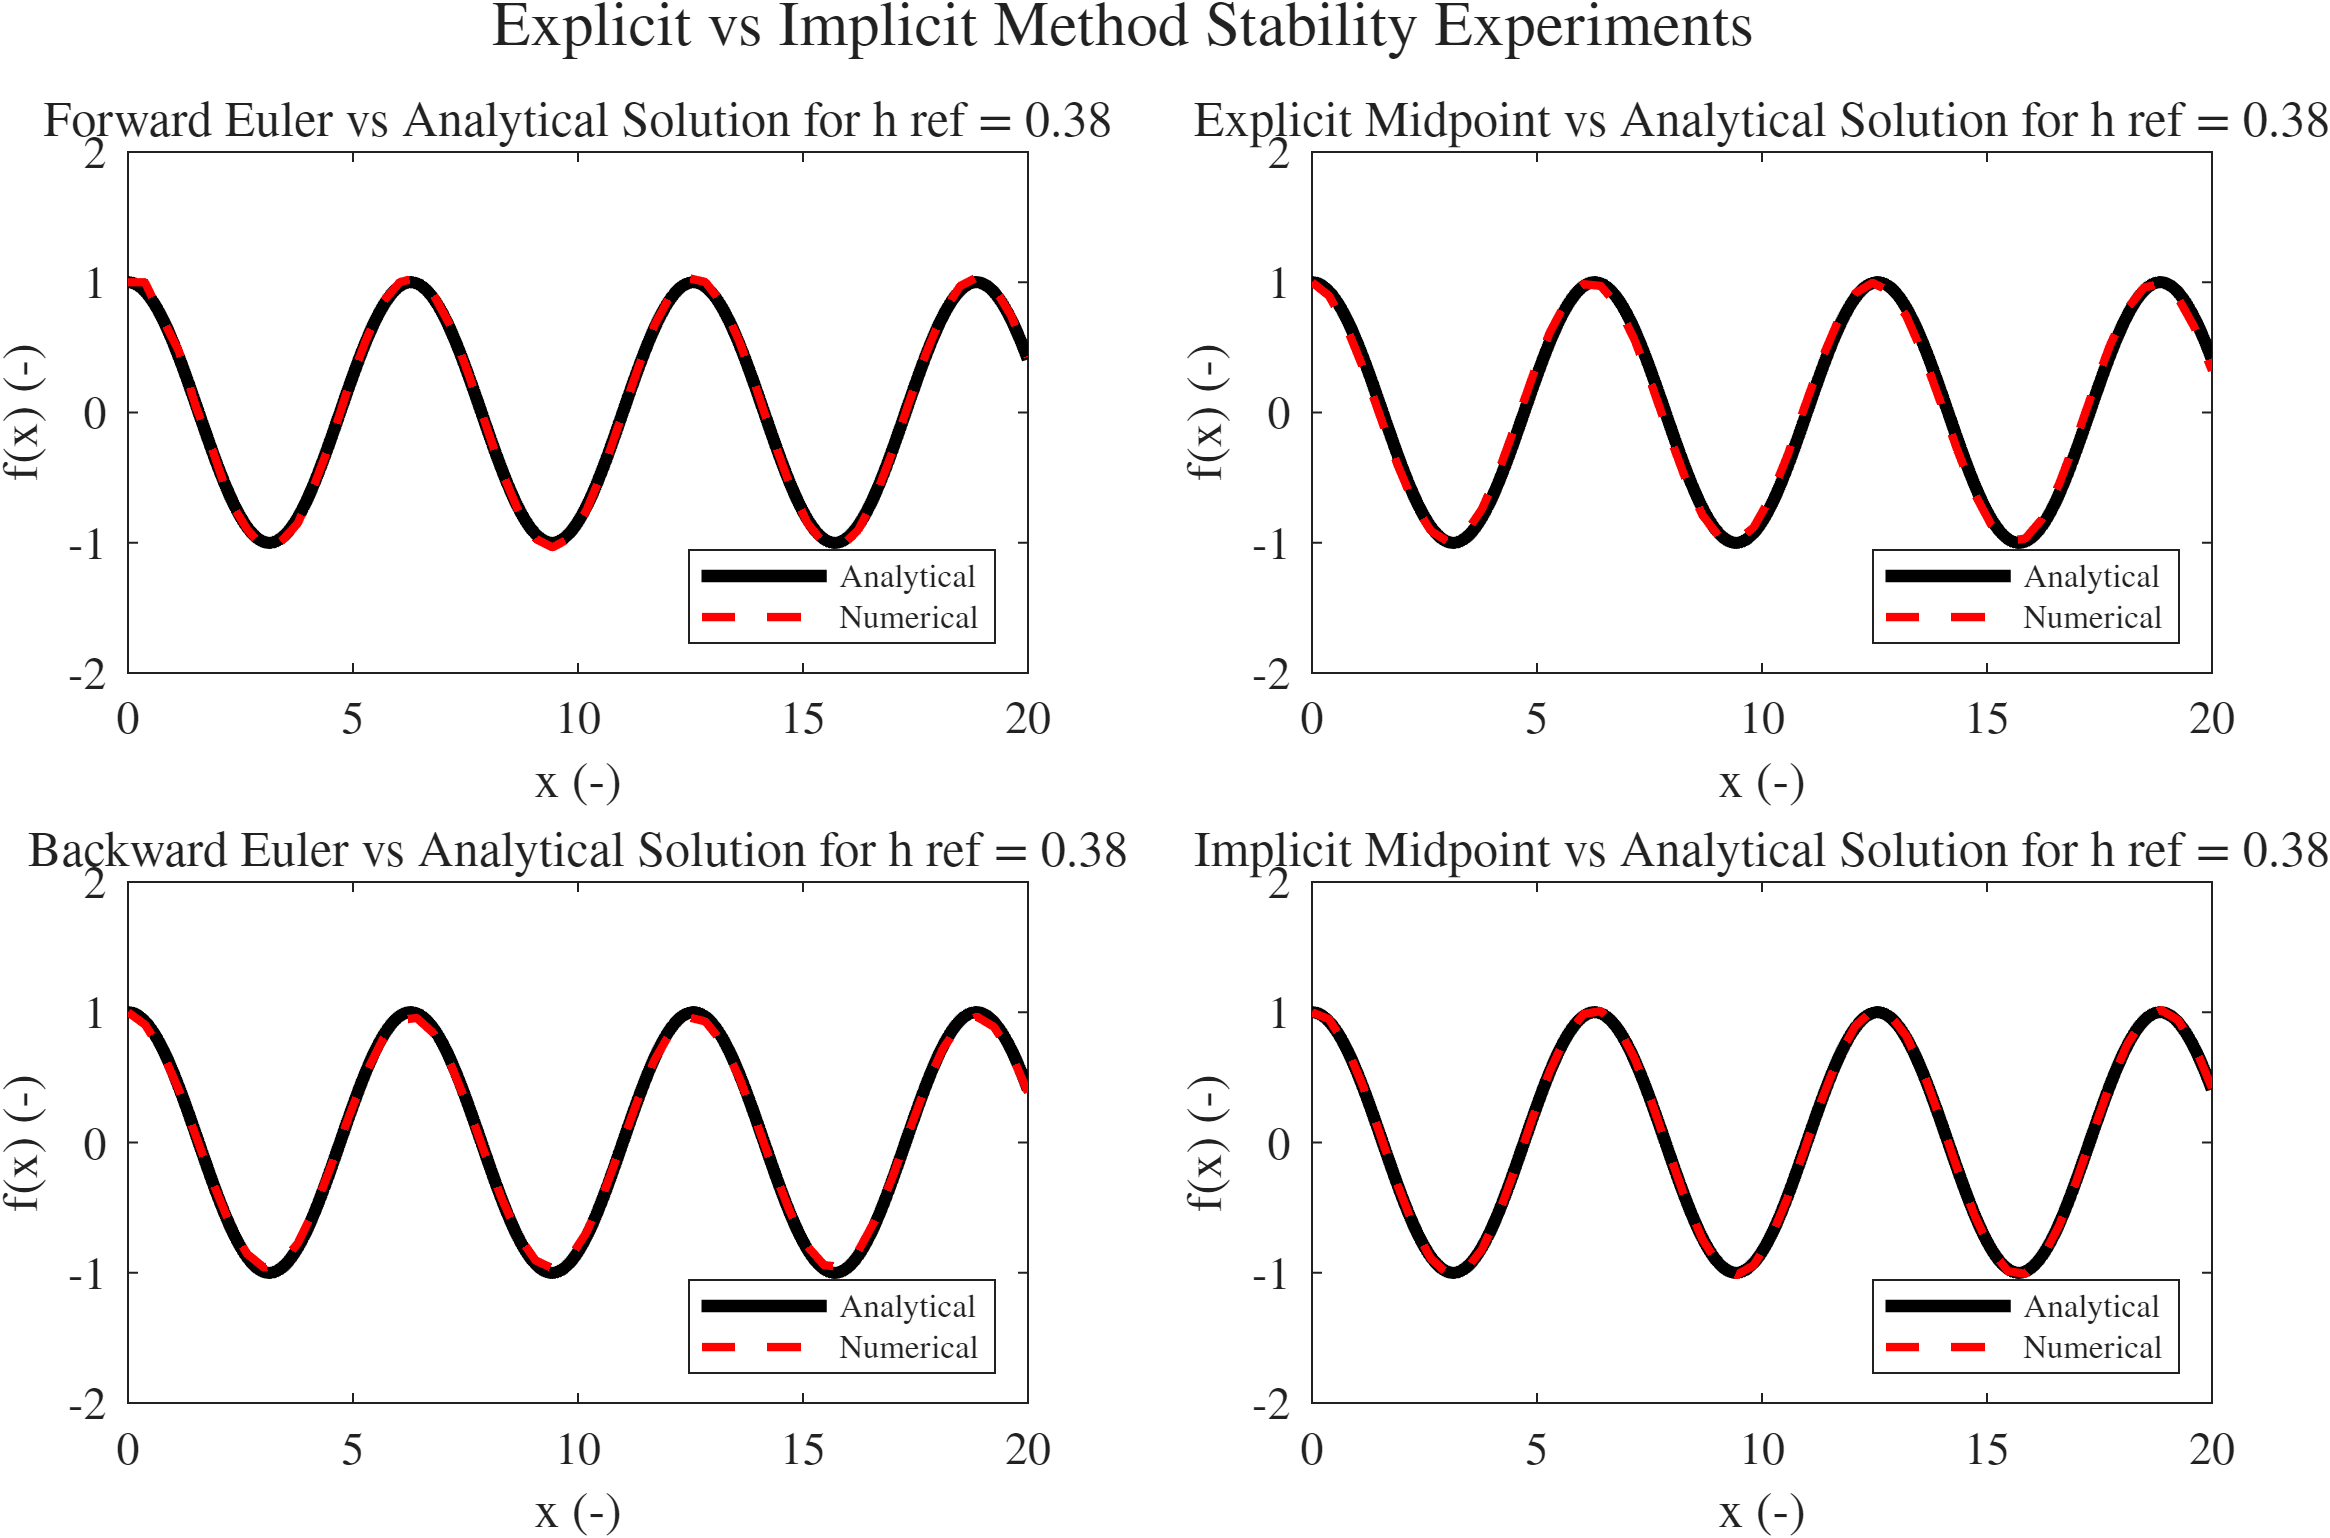
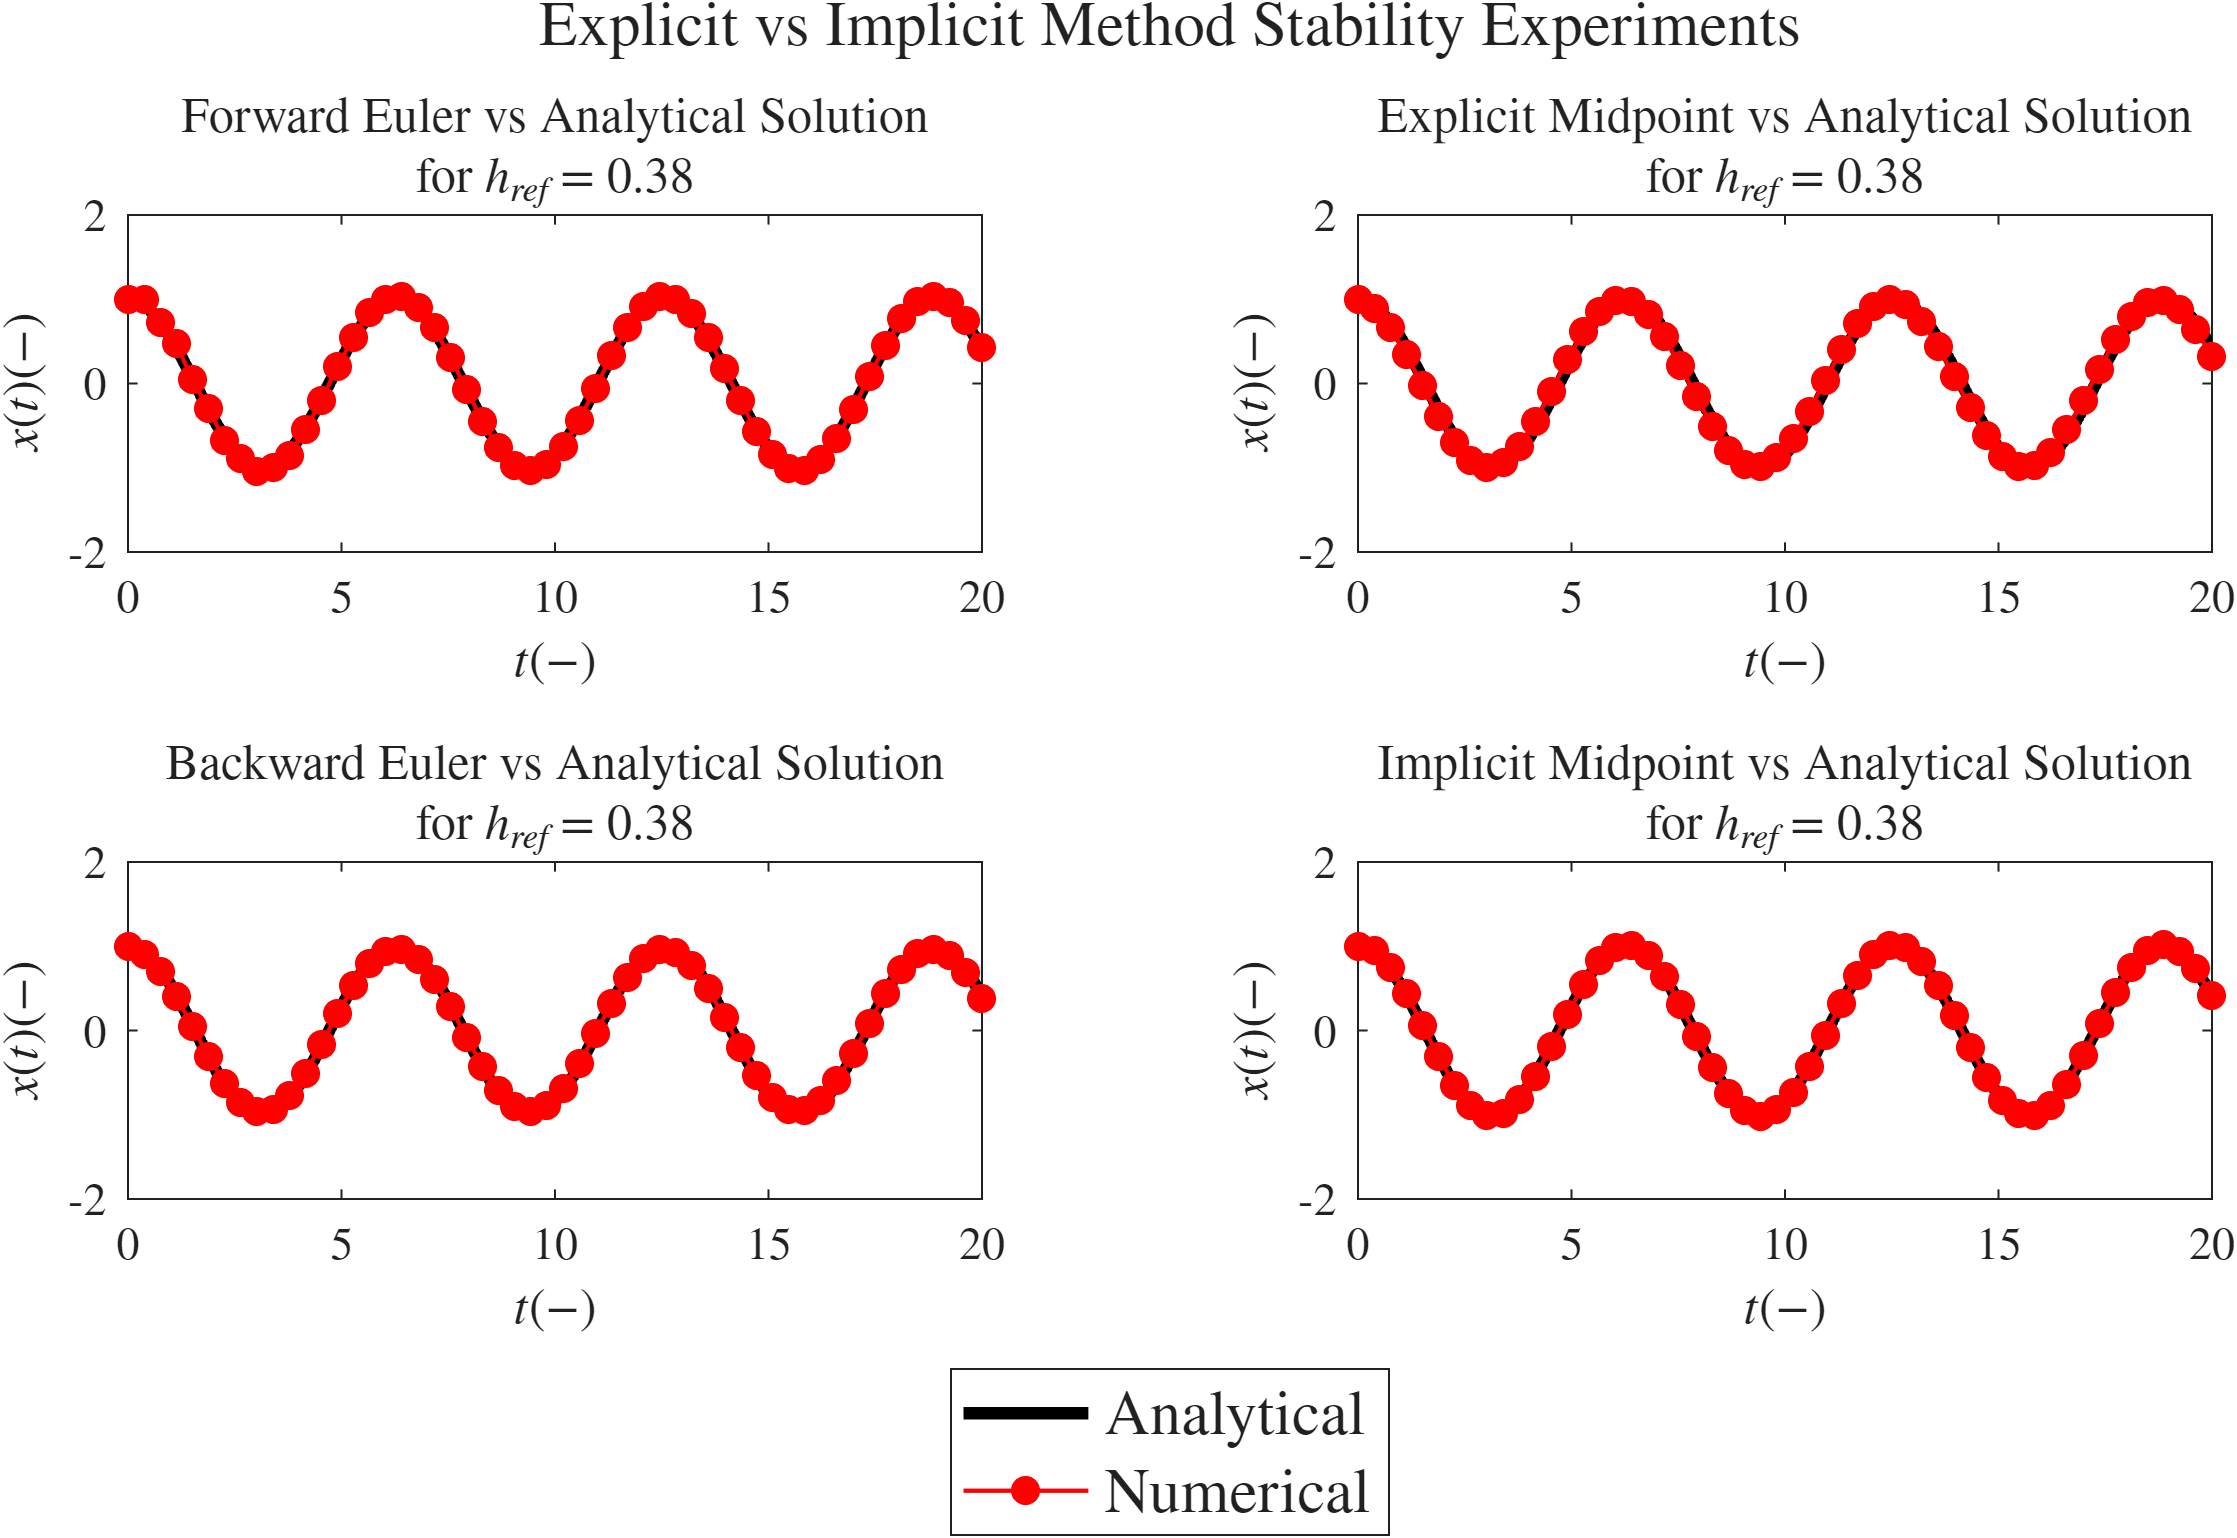
fixed stability plots

diff --git a/stability_plot_2.m b/stability_plot_2.m
@@ -1,76 +1,84 @@
 
-f= figure();
-subplot(2, 2, 1);
+f = figure();
+tcl = tiledlayout(2, 2)
+% subplot(2, 2, 1);
+nexttile(tcl);
 t_space = linspace(0,20,20/0.01);
 true_sol = solution01(t_space);
 [t_list_fe, X_list_fe, h_avg, num_evals] = forward_euler_fixed_step_integration(@rate_func01, [0,20], 1, .45);
-plot(t_space, true_sol, LineWidth=3, Color="k")
+line1 = plot(t_space, true_sol, LineWidth=3, Color="k")
 hold on
-plot(t_list_fe, X_list_fe, '--', LineWidth=2, Color="r")
+line2 = plot(t_list_fe, X_list_fe, '-o',MarkerFaceColor='r', LineWidth=1, Color="r")
 hold off
-legend(["Analytical","Numerical"], Interpreter="latex", Location="southeast", FontSize=8)
-xlabel("x (-)", Interpreter="latex", FontSize=14)
-ylabel("f(x) (-)", Interpreter="latex", FontSize=14)
+%legend(["Analytical","Numerical"], Interpreter="latex", Location="southeast", FontSize=8)
+xlabel("$t (-)$", Interpreter="latex", FontSize=14)
+ylabel("$x(t) (-)$", Interpreter="latex", FontSize=14)
 axis([0 20 -2 2])
-title("Forward Euler vs Analytical Solution for h ref = 0.45", Interpreter='latex', FontSize=11)
+title(["Forward Euler vs Analytical Solution", "for $h_{ref}$ = 0.45"], Interpreter='latex', FontSize=11)
 ax = gca;
 ax.FontSize = 11;
 ax.XAxis.TickLabelInterpreter = 'Latex';
 ax.YAxis.TickLabelInterpreter = 'Latex';
 
-subplot(2, 2, 2);
+% subplot(2, 2, 2);
+nexttile(tcl);
 t_space = linspace(0,20,20/0.01);
 true_sol = solution01(t_space);
 [t_list_emp, X_list_emp, h_avg, num_evals] = explicit_midpoint_fixed_step_integration(@rate_func01, [0,20], 1, .45);
 plot(t_space, true_sol, LineWidth=3, Color="k")
 hold on
-plot(t_list_emp, X_list_emp, '--', LineWidth=2, Color="r")
+plot(t_list_emp, X_list_emp, '-o',MarkerFaceColor='r', LineWidth=1, Color="r")
 hold off
-legend(["Analytical","Numerical"], Interpreter="latex", Location="southeast", FontSize=8)
-xlabel("x (-)", Interpreter="latex", FontSize=14)
-ylabel("f(x) (-)", Interpreter="latex", FontSize=14)
+%legend(["Analytical","Numerical"], Interpreter="latex", Location="southeast", FontSize=8)
+xlabel("$t (-)$", Interpreter="latex", FontSize=14)
+ylabel("$x(t) (-)$", Interpreter="latex", FontSize=14)
 axis([0 20 -2 2])
-title("Explicit Midpoint vs Analytical Solution for h ref = 0.45", Interpreter='latex', FontSize=11)
+title(["Explicit Midpoint vs Analytical Solution", "for $h_{ref}$ = 0.45"], Interpreter='latex', FontSize=11)
 ax = gca;
 ax.FontSize = 11;
 ax.XAxis.TickLabelInterpreter = 'Latex';
 ax.YAxis.TickLabelInterpreter = 'Latex';
 
-subplot(2, 2, 3);
+% subplot(2, 2, 3);
+nexttile(tcl);
 t_space = linspace(0,20,20/0.01);
 true_sol = solution01(t_space);
 [t_list_be, X_list_be, h_avg, num_evals] = backward_euler_fixed_step_integration(@rate_func01, [0,20], 1, .45);
 plot(t_space, true_sol, LineWidth=3, Color="k")
 hold on
-plot(t_list_be, X_list_be, '--', LineWidth=2, Color="r")
+plot(t_list_be, X_list_be, '-o', MarkerFaceColor='r',LineWidth=1, Color="r")
 hold off
-legend(["Analytical","Numerical"], Interpreter="latex", Location="southeast", FontSize=8)
-xlabel("x (-)", Interpreter="latex", FontSize=14)
-ylabel("f(x) (-)", Interpreter="latex", FontSize=14)
+%legend(["Analytical","Numerical"], Interpreter="latex", Location="southeast", FontSize=8)
+xlabel("$t (-)$", Interpreter="latex", FontSize=14)
+ylabel("$x(t) (-)$", Interpreter="latex", FontSize=14)
 axis([0 20 -2 2])
-title("Backward Euler vs Analytical Solution for h ref = 0.45", Interpreter='latex', FontSize=11)
+title(["Backward Euler vs Analytical Solution", "for $h_{ref}$ = 0.45"], Interpreter='latex', FontSize=11)
 ax = gca;
 ax.FontSize = 11;
 ax.XAxis.TickLabelInterpreter = 'Latex';
 ax.YAxis.TickLabelInterpreter = 'Latex';
 
-subplot(2, 2, 4);
+% subplot(2, 2, 4);
+nexttile(tcl);
 t_space = linspace(0,20,20/0.01);
 true_sol = solution01(t_space);
 [t_list_imp, X_list_imp, h_avg, num_evals] = implicit_midpoint_fixed_step_integration(@rate_func01, [0,20], 1, .45);
 plot(t_space, true_sol, LineWidth=3, Color="k")
 hold on
-plot(t_list_imp, X_list_imp, '--', LineWidth=2, Color="r")
+plot(t_list_imp, X_list_imp, '-o',MarkerFaceColor='r', LineWidth=1, Color="r")
 hold off
-legend(["Analytical","Numerical"], Interpreter="latex", Location="southeast", FontSize=8)
-xlabel("x (-)", Interpreter="latex", FontSize=14)
-ylabel("f(x) (-)", Interpreter="latex", FontSize=14)
+%legend(["Analytical","Numerical"], Interpreter="latex", Location="southeast", FontSize=8)
+xlabel("$t (-)$", Interpreter="latex", FontSize=14)
+ylabel("$x(t) (-)$", Interpreter="latex", FontSize=14)
 axis([0 20 -2 2])
-title("Implicit Midpoint vs Analytical Solution for h ref = 0.45", Interpreter='latex', FontSize=11)
+title(["Implicit Midpoint vs Analytical Solution", "for $h_{ref}$ = 0.45"], Interpreter='latex', FontSize=11)
 ax = gca;
 ax.FontSize = 11;
 ax.XAxis.TickLabelInterpreter = 'Latex';
 ax.YAxis.TickLabelInterpreter = 'Latex';
 
 sgtitle("Explicit vs Implicit Method Stability Experiments", Interpreter='latex', FontSize=15)
+hl = legend(["Analytical" "Numerical"],Interpreter='latex', FontSize=15);
+hl.Layout.Tile = 'South';
+
 exportgraphics(f, 'plots/45_stability.png', 'Resolution',300)

diff --git a/stability_plots.m b/stability_plots.m
@@ -1,77 +1,84 @@
 
 f = figure();
-subplot(2, 2, 1);
+tcl = tiledlayout(2, 2)
+% subplot(2, 2, 1);
+nexttile(tcl);
 t_space = linspace(0,20,20/0.01);
 true_sol = solution01(t_space);
 [t_list_fe, X_list_fe, h_avg, num_evals] = forward_euler_fixed_step_integration(@rate_func01, [0,20], 1, .38);
-plot(t_space, true_sol, LineWidth=3, Color="k")
+line1 = plot(t_space, true_sol, LineWidth=3, Color="k")
 hold on
-plot(t_list_fe, X_list_fe, '--', LineWidth=2, Color="r")
+line2 = plot(t_list_fe, X_list_fe, '-o',MarkerFaceColor='r', LineWidth=1, Color="r")
 hold off
-legend(["Analytical","Numerical"], Interpreter="latex", Location="southeast", FontSize=8)
-xlabel("x (-)", Interpreter="latex", FontSize=14)
-ylabel("f(x) (-)", Interpreter="latex", FontSize=14)
+%legend(["Analytical","Numerical"], Interpreter="latex", Location="southeast", FontSize=8)
+xlabel("$t (-)$", Interpreter="latex", FontSize=14)
+ylabel("$x(t) (-)$", Interpreter="latex", FontSize=14)
 axis([0 20 -2 2])
-title("Forward Euler vs Analytical Solution for h ref = 0.38", Interpreter='latex', FontSize=11)
+title(["Forward Euler vs Analytical Solution", "for $h_{ref}$ = 0.38"], Interpreter='latex', FontSize=11)
 ax = gca;
 ax.FontSize = 11;
 ax.XAxis.TickLabelInterpreter = 'Latex';
 ax.YAxis.TickLabelInterpreter = 'Latex';
 
-subplot(2, 2, 2);
+% subplot(2, 2, 2);
+nexttile(tcl);
 t_space = linspace(0,20,20/0.01);
 true_sol = solution01(t_space);
 [t_list_emp, X_list_emp, h_avg, num_evals] = explicit_midpoint_fixed_step_integration(@rate_func01, [0,20], 1, .38);
 plot(t_space, true_sol, LineWidth=3, Color="k")
 hold on
-plot(t_list_emp, X_list_emp, '--', LineWidth=2, Color="r")
+plot(t_list_emp, X_list_emp, '-o',MarkerFaceColor='r', LineWidth=1, Color="r")
 hold off
-legend(["Analytical","Numerical"], Interpreter="latex", Location="southeast", FontSize=8)
-xlabel("x (-)", Interpreter="latex", FontSize=14)
-ylabel("f(x) (-)", Interpreter="latex", FontSize=14)
+%legend(["Analytical","Numerical"], Interpreter="latex", Location="southeast", FontSize=8)
+xlabel("$t (-)$", Interpreter="latex", FontSize=14)
+ylabel("$x(t) (-)$", Interpreter="latex", FontSize=14)
 axis([0 20 -2 2])
-title("Explicit Midpoint vs Analytical Solution for h ref = 0.38", Interpreter='latex', FontSize=11)
+title(["Explicit Midpoint vs Analytical Solution", "for $h_{ref}$ = 0.38"], Interpreter='latex', FontSize=11)
 ax = gca;
 ax.FontSize = 11;
 ax.XAxis.TickLabelInterpreter = 'Latex';
 ax.YAxis.TickLabelInterpreter = 'Latex';
 
-subplot(2, 2, 3);
+% subplot(2, 2, 3);
+nexttile(tcl);
 t_space = linspace(0,20,20/0.01);
 true_sol = solution01(t_space);
 [t_list_be, X_list_be, h_avg, num_evals] = backward_euler_fixed_step_integration(@rate_func01, [0,20], 1, .38);
 plot(t_space, true_sol, LineWidth=3, Color="k")
 hold on
-plot(t_list_be, X_list_be, '--', LineWidth=2, Color="r")
+plot(t_list_be, X_list_be, '-o', MarkerFaceColor='r',LineWidth=1, Color="r")
 hold off
-legend(["Analytical","Numerical"], Interpreter="latex", Location="southeast", FontSize=8)
-xlabel("x (-)", Interpreter="latex", FontSize=14)
-ylabel("f(x) (-)", Interpreter="latex", FontSize=14)
+%legend(["Analytical","Numerical"], Interpreter="latex", Location="southeast", FontSize=8)
+xlabel("$t (-)$", Interpreter="latex", FontSize=14)
+ylabel("$x(t) (-)$", Interpreter="latex", FontSize=14)
 axis([0 20 -2 2])
-title("Backward Euler vs Analytical Solution for h ref = 0.38", Interpreter='latex', FontSize=11)
+title(["Backward Euler vs Analytical Solution", "for $h_{ref}$ = 0.38"], Interpreter='latex', FontSize=11)
 ax = gca;
 ax.FontSize = 11;
 ax.XAxis.TickLabelInterpreter = 'Latex';
 ax.YAxis.TickLabelInterpreter = 'Latex';
 
-subplot(2, 2, 4);
+% subplot(2, 2, 4);
+nexttile(tcl);
 t_space = linspace(0,20,20/0.01);
 true_sol = solution01(t_space);
 [t_list_imp, X_list_imp, h_avg, num_evals] = implicit_midpoint_fixed_step_integration(@rate_func01, [0,20], 1, .38);
 plot(t_space, true_sol, LineWidth=3, Color="k")
 hold on
-plot(t_list_imp, X_list_imp, '--', LineWidth=2, Color="r")
+plot(t_list_imp, X_list_imp, '-o',MarkerFaceColor='r', LineWidth=1, Color="r")
 hold off
-legend(["Analytical","Numerical"], Interpreter="latex", Location="southeast", FontSize=8)
-xlabel("x (-)", Interpreter="latex", FontSize=14)
-ylabel("f(x) (-)", Interpreter="latex", FontSize=14)
+%legend(["Analytical","Numerical"], Interpreter="latex", Location="southeast", FontSize=8)
+xlabel("$t (-)$", Interpreter="latex", FontSize=14)
+ylabel("$x(t) (-)$", Interpreter="latex", FontSize=14)
 axis([0 20 -2 2])
-title("Implicit Midpoint vs Analytical Solution for h ref = 0.38", Interpreter='latex', FontSize=11)
+title(["Implicit Midpoint vs Analytical Solution", "for $h_{ref}$ = 0.38"], Interpreter='latex', FontSize=11)
 ax = gca;
 ax.FontSize = 11;
 ax.XAxis.TickLabelInterpreter = 'Latex';
 ax.YAxis.TickLabelInterpreter = 'Latex';
 
 sgtitle("Explicit vs Implicit Method Stability Experiments", Interpreter='latex', FontSize=15)
+hl = legend(["Analytical" "Numerical"],Interpreter='latex', FontSize=15);
+hl.Layout.Tile = 'South';
 
 exportgraphics(f, 'plots/38_stability.png', 'Resolution',300)

diff --git a/implicit_midpoint_fixed_step_integration.m b/implicit_midpoint_fixed_step_integration.m
@@ -12,7 +12,7 @@
 %X_list: the vector of X, [X0';X1';X2';...;(X_end)'] at each time step
 %h_avg: the average step size
 %num_evals: total number of calls made to rate_func_in during the integration
-function [t_list,X_list,h_avg, num_evals] = implicit_midpoint_fixed_step_integration_test(rate_func_in,tspan,X0,h_ref)
+function [t_list,X_list,h_avg, num_evals] = implicit_midpoint_fixed_step_integration(rate_func_in,tspan,X0,h_ref)
     n_steps = ceil((tspan(2)-tspan(1))/h_ref);
 
     h_avg = (tspan(2) - tspan(1))/n_steps;
@@ -30,28 +30,28 @@ function [t_list,X_list,h_avg, num_evals] = implicit_midpoint_fixed_step_integra
 end
 
 
-
-[t_list_small, X_list_small, h_avg, small_num_evals] = implicit_midpoint_fixed_step_integration_test(@rate_func01, [0,2*pi], 1, 0.1);
-[t_list_med, X_list_med, h_avg, med_num_evals] = implicit_midpoint_fixed_step_integration_test(@rate_func01, [0,2*pi], 1, 0.5);
-[t_list_large, X_list_large, h_avg, large_num_evals] = implicit_midpoint_fixed_step_integration_test(@rate_func01, [0,2*pi], 1, 0.9);
-
-figure();
-% set(f, "interpreter", "latex")
-t_space = linspace(0,2*pi,2*pi/0.01);
-true_sol = cos(t_space);
-plot(t_space, true_sol, LineWidth=3, Color="k")
-hold on
-plot(t_list_small, X_list_small, "-o",MarkerFaceColor='r',LineWidth=2, Color="r")
-plot(t_list_med, X_list_med, "-o", MarkerFaceColor='g',LineWidth=2, Color="g")
-plot(t_list_large, X_list_large, "-o", MarkerFaceColor='b',LineWidth=2, Color="b")
-hold off
-legend(["True","$h = 0.1$", "$h = 0.5$", "$h = 0.9$"], Interpreter="latex", Location="north", FontSize=16)
-xlabel("Time (-)", Interpreter="latex", FontSize=16)
-ylabel("$X(t) (-)$", Interpreter="latex", FontSize=16)
-axis([0 2*pi -1.5 1.5])
-title("Implicit Midpoint Method Integration Example", Interpreter='latex', FontSize=18)
-ax = gca;
-ax.FontSize = 16;
-ax.XAxis.TickLabelInterpreter = 'Latex';
-ax.YAxis.TickLabelInterpreter = 'Latex';
-exportgraphics(gca, 'plots/implicit_midpoint.png', 'Resolution',300)
+% 
+% [t_list_small, X_list_small, h_avg, small_num_evals] = implicit_midpoint_fixed_step_integration_test(@rate_func01, [0,2*pi], 1, 0.1);
+% [t_list_med, X_list_med, h_avg, med_num_evals] = implicit_midpoint_fixed_step_integration_test(@rate_func01, [0,2*pi], 1, 0.5);
+% [t_list_large, X_list_large, h_avg, large_num_evals] = implicit_midpoint_fixed_step_integration_test(@rate_func01, [0,2*pi], 1, 0.9);
+% 
+% figure();
+% % set(f, "interpreter", "latex")
+% t_space = linspace(0,2*pi,2*pi/0.01);
+% true_sol = cos(t_space);
+% plot(t_space, true_sol, LineWidth=3, Color="k")
+% hold on
+% plot(t_list_small, X_list_small, "-o",MarkerFaceColor='r',LineWidth=2, Color="r")
+% plot(t_list_med, X_list_med, "-o", MarkerFaceColor='g',LineWidth=2, Color="g")
+% plot(t_list_large, X_list_large, "-o", MarkerFaceColor='b',LineWidth=2, Color="b")
+% hold off
+% legend(["True","$h = 0.1$", "$h = 0.5$", "$h = 0.9$"], Interpreter="latex", Location="north", FontSize=16)
+% xlabel("Time (-)", Interpreter="latex", FontSize=16)
+% ylabel("$X(t) (-)$", Interpreter="latex", FontSize=16)
+% axis([0 2*pi -1.5 1.5])
+% title("Implicit Midpoint Method Integration Example", Interpreter='latex', FontSize=18)
+% ax = gca;
+% ax.FontSize = 16;
+% ax.XAxis.TickLabelInterpreter = 'Latex';
+% ax.YAxis.TickLabelInterpreter = 'Latex';
+% exportgraphics(gca, 'plots/implicit_midpoint.png', 'Resolution',300)
